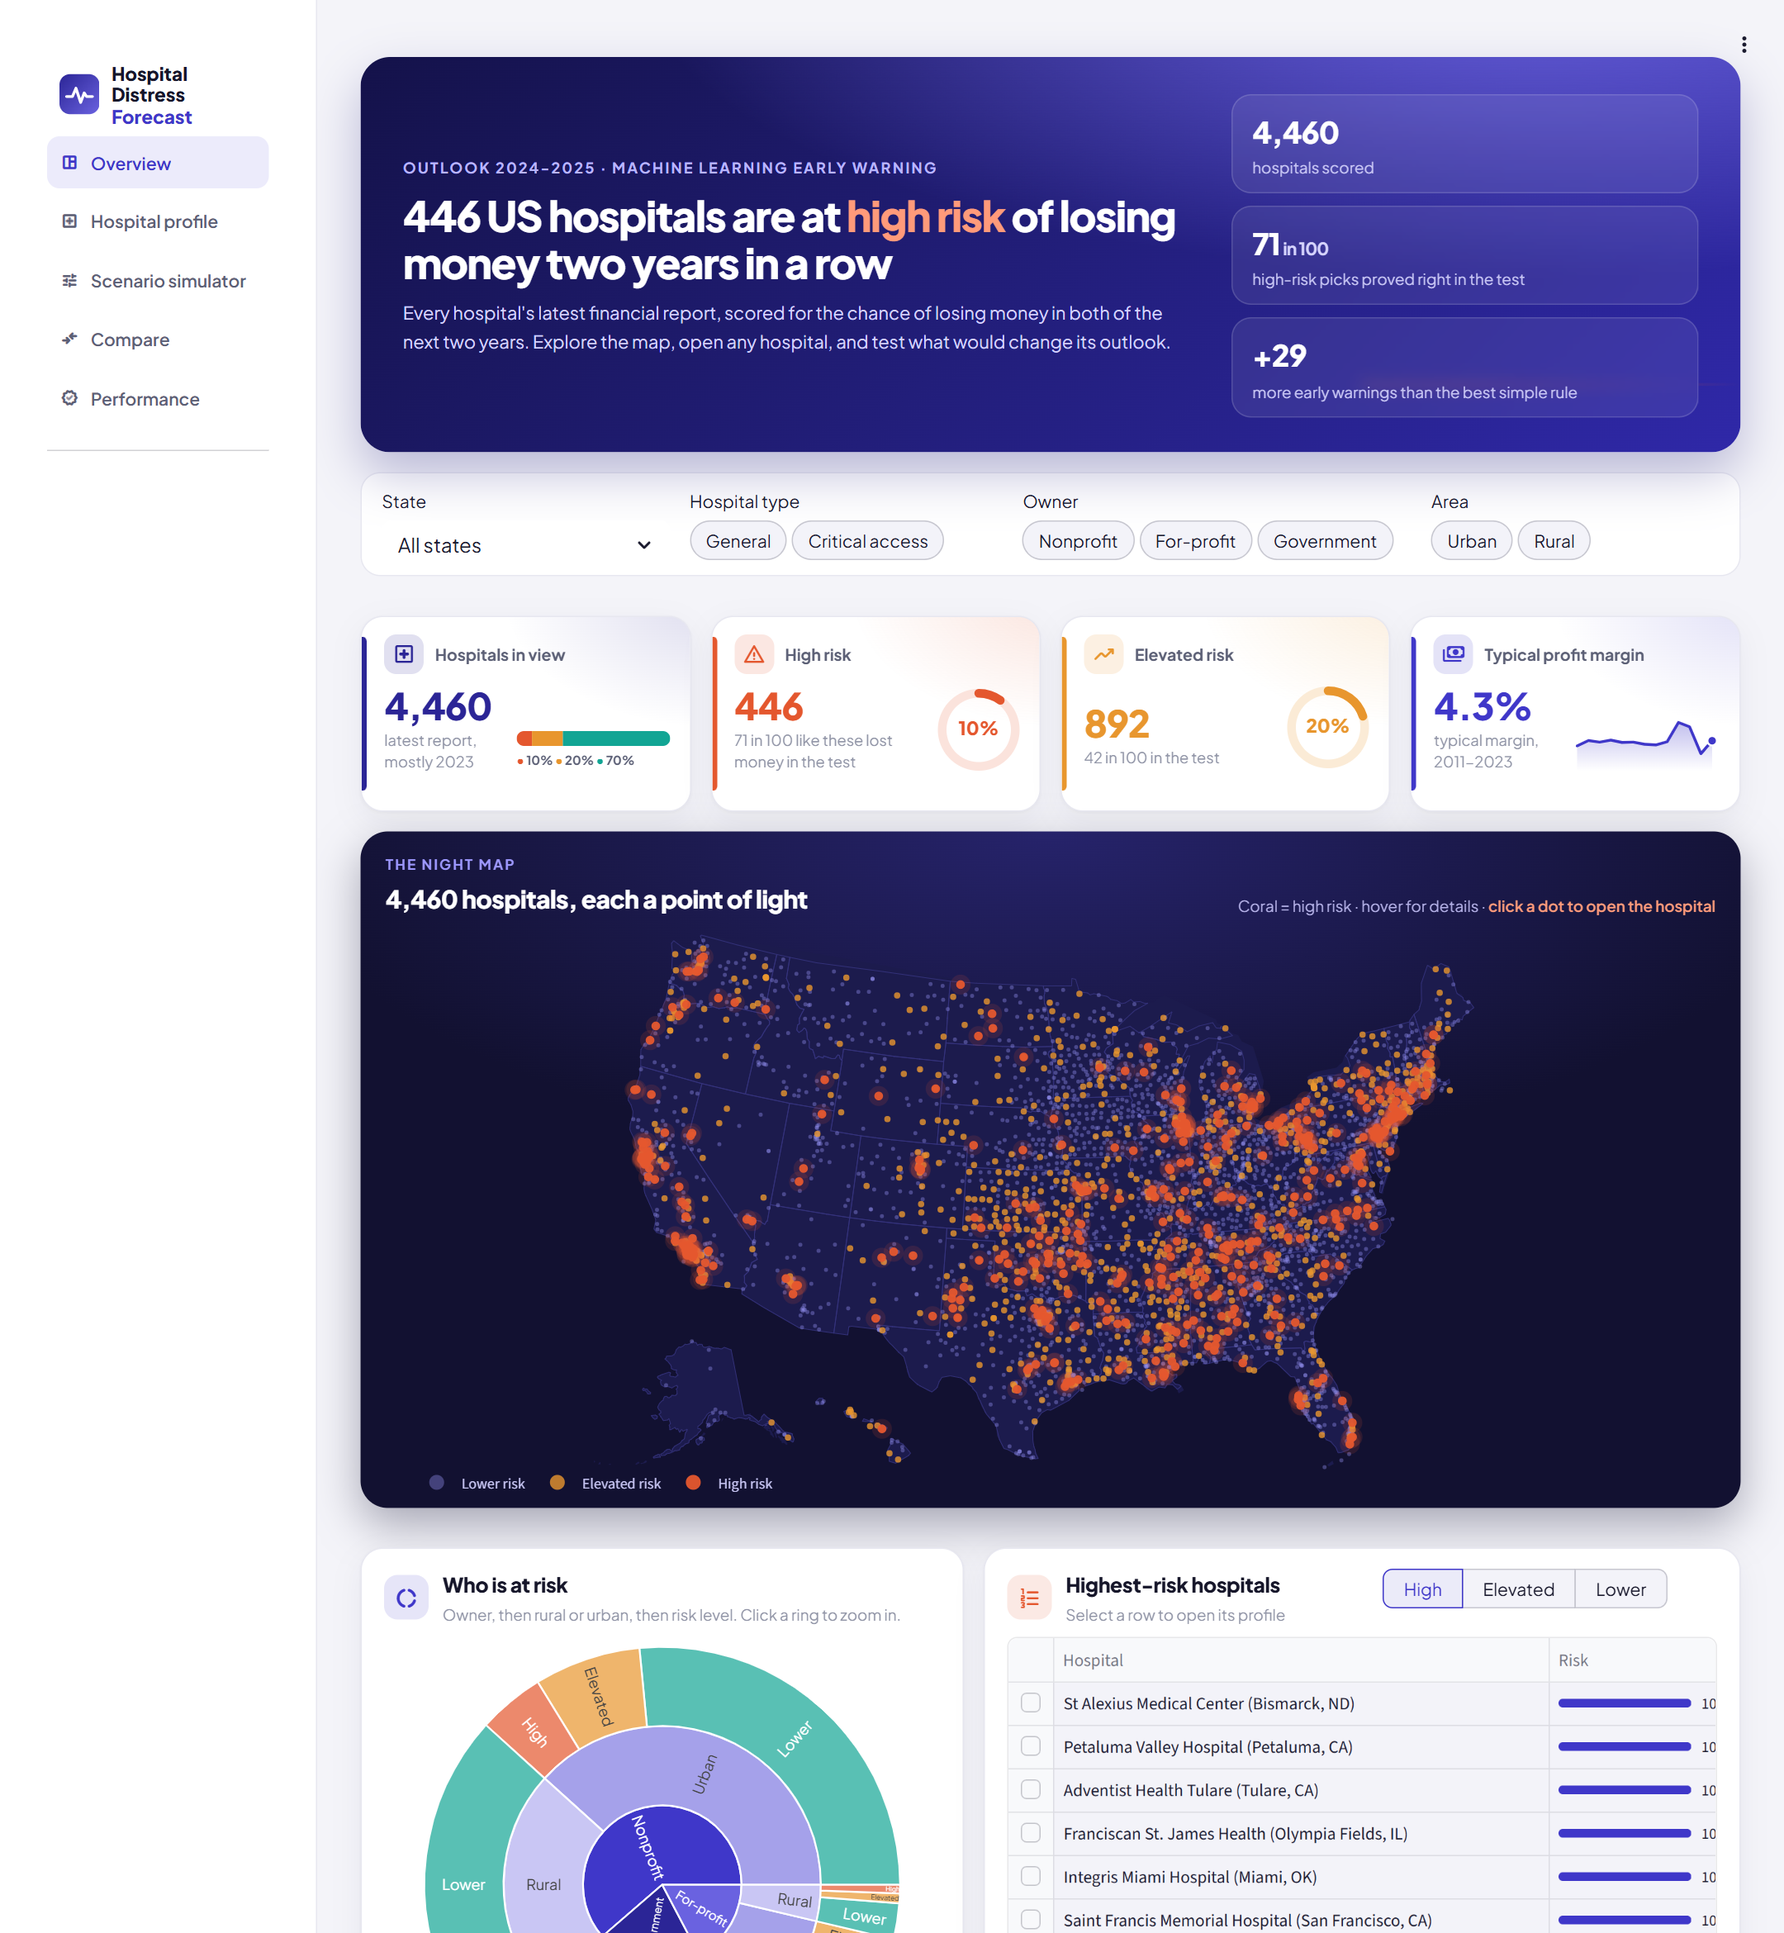
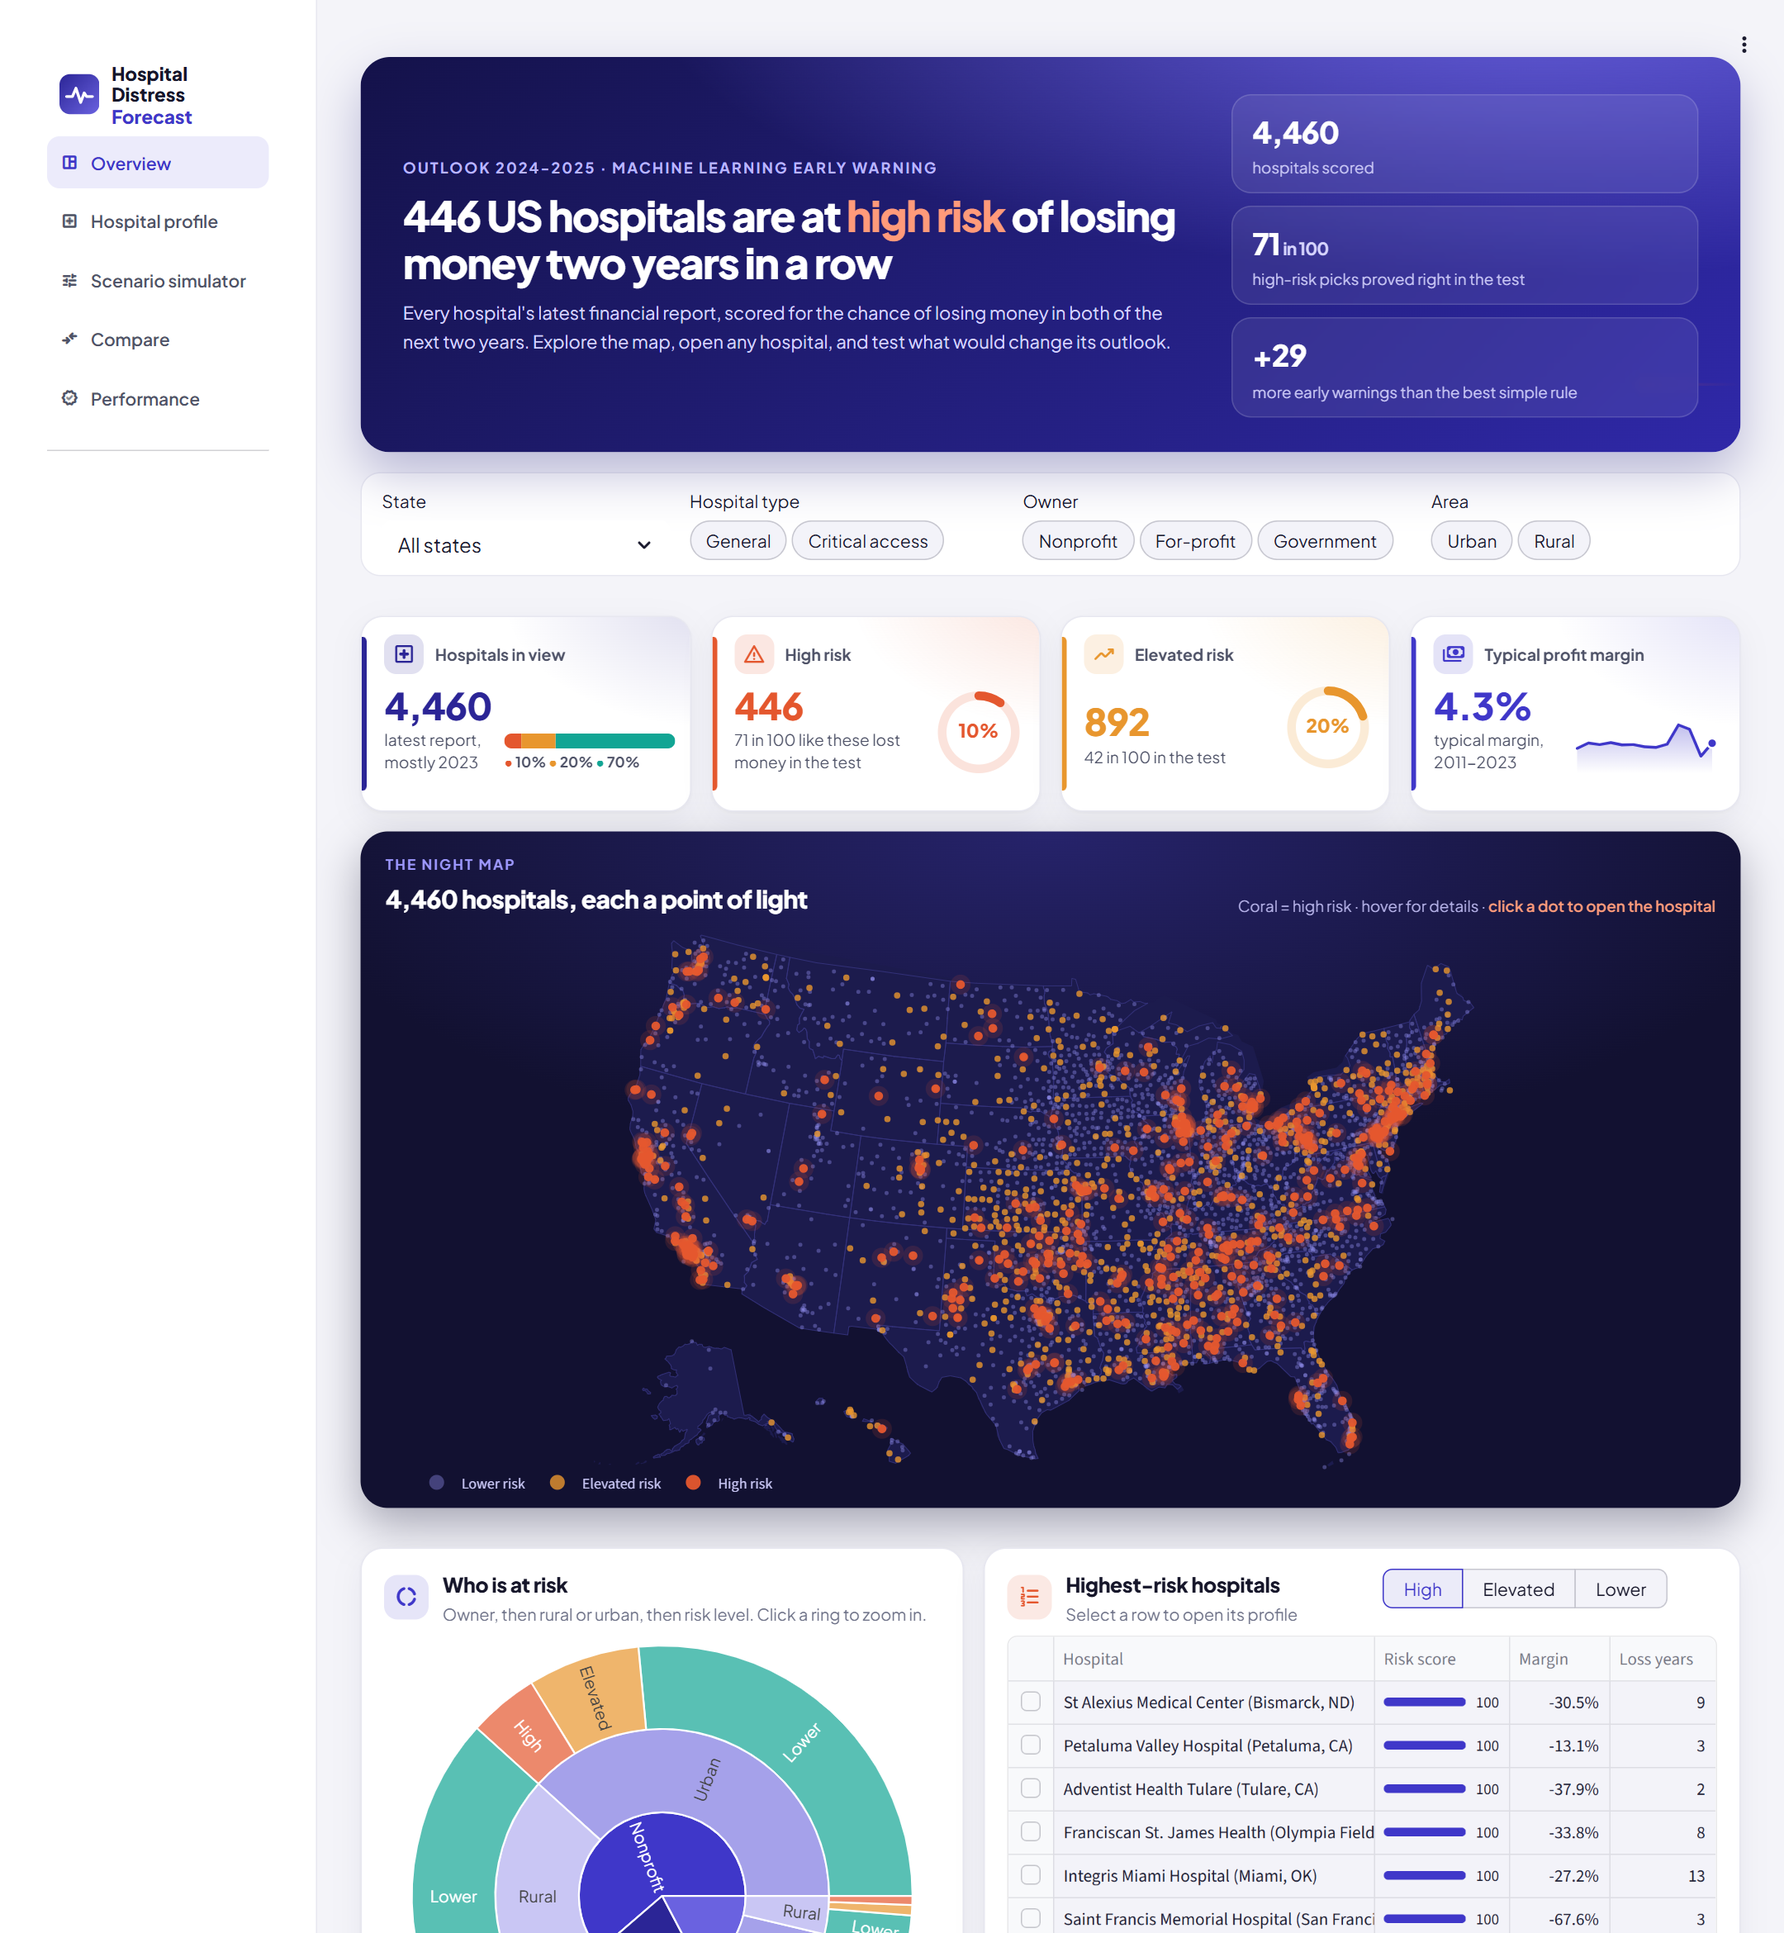
App readability pass: How it works redesign, darker and larger small text, table widths, sunburst labels

diff --git a/app/app.py b/app/app.py
@@ -21,7 +21,7 @@ APP = Path(__file__).resolve().parent
 DATA, MODELS = APP / "data", APP.parent / "models"
 INDIGO, INDIGO_D, INDIGO_L, INDIGO_XL = "#3F37C9", "#2B2596", "#A5A1EA", "#ECEBFB"
 CORAL, AMBER, TEAL = "#E4572E", "#E8962E", "#12A594"
-INK, INK_2, INK_3, CANVAS, CARD, LINE = "#16162A", "#5C6076", "#9094A6", "#F4F4F9", "#FFFFFF", "#E7E7F0"
+INK, INK_2, INK_3, CANVAS, CARD, LINE = "#16162A", "#4F5368", "#6E7288", "#F4F4F9", "#FFFFFF", "#E7E7F0"
 LEVEL_COLOUR = {"High": CORAL, "Elevated": AMBER, "Lower": TEAL}
 LEVEL_BG = {"High": "#FCE7E1", "Elevated": "#FDF0DE", "Lower": "#DDF4F1"}
 LEVELS = ["High", "Elevated", "Lower"]
@@ -174,8 +174,8 @@ h3 {{ font-size: 1.02rem !important; font-weight: 700 !important; color: {INK}; 
 [class*="st-key-card-kpi"] {{ min-height: 128px; }}
 [class*="st-key-filters"] {{ background: {CARD}; border: 1px solid {LINE}; border-radius: 16px; padding: 10px 16px 4px 16px; }}
 .eyebrow {{ font-size: 11.5px; font-weight: 700; letter-spacing: .1em; text-transform: uppercase; color: {INDIGO}; }}
-.sub {{ color: {INK_2}; font-size: 14px; line-height: 1.5; }}
-.muted {{ color: {INK_3}; font-size: 12.5px; }}
+.sub {{ color: {INK_2}; font-size: 14.5px; line-height: 1.55; }}
+.muted {{ color: {INK_3}; font-size: 13.2px; line-height: 1.45; }}
 .kpi-lab {{ color: {INK_2}; font-size: 13px; font-weight: 600; }}
 .kpi-num {{ font-size: 30px; font-weight: 800; letter-spacing: -0.02em; line-height: 1.15; margin: 6px 0 2px 0; }}
 .kpi-ctx {{ color: {INK_3}; font-size: 12.5px; }}
@@ -236,7 +236,7 @@ div[data-testid="stMetricValue"] {{ font-weight: 800; }}
 .kpi2-lab {{ font-size: 13px; font-weight: 700; color: {INK_2}; line-height: 1.25; }}
 .kpi2-body {{ display: flex; justify-content: space-between; align-items: flex-end; gap: 10px; margin-top: 10px; }}
 .kpi2-num {{ font-size: 30px; font-weight: 800; letter-spacing: -0.025em; color: var(--c); line-height: 1.05; }}
-.kpi2-ctx {{ font-size: 12.2px; color: {INK_3}; margin-top: 4px; line-height: 1.35; display: -webkit-box;
+.kpi2-ctx {{ font-size: 12.8px; color: {INK_2}; margin-top: 4px; line-height: 1.35; display: -webkit-box;
     -webkit-line-clamp: 3; -webkit-box-orient: vertical; overflow: hidden; }}
 .kpi2-vis {{ flex: none; }}
 .sec {{ display: flex; gap: 11px; align-items: center; margin-bottom: 8px; }}
@@ -280,11 +280,26 @@ div[data-testid="stMetricValue"] {{ font-weight: 800; }}
 .step-n {{ font-size: 11px; font-weight: 800; color: {INDIGO}; letter-spacing: .1em; }}
 .step-t {{ font-size: 14.5px; font-weight: 800; color: {INK}; margin: 4px 0 4px 0; }}
 .step-d {{ font-size: 12.8px; color: {INK_2}; line-height: 1.45; }}
+.journey {{ position: relative; display: grid; grid-template-columns: repeat(4, 1fr); gap: 18px; margin-top: 8px; }}
+.journey::before {{ content: ""; position: absolute; left: 12%; right: 12%; top: 43px; height: 3px; border-radius: 3px;
+    background: linear-gradient(90deg, {INDIGO}, {TEAL}, {AMBER}, {CORAL}); opacity: .35; }}
+.jr {{ position: relative; background: #fff; border: 1px solid {LINE}; border-top: 4px solid var(--c); border-radius: 18px;
+    padding: 18px 18px 20px 18px; text-align: center; box-shadow: 0 6px 18px rgba(22,22,42,.05); animation: rise .6s both; }}
+.jr-dot {{ width: 48px; height: 48px; border-radius: 50%; margin: 0 auto 10px auto; display: grid; place-items: center;
+    background: var(--c); color: white; box-shadow: 0 6px 16px color-mix(in srgb, var(--c) 40%, transparent); }}
+.jr-dot .msym {{ font-size: 24px; }}
+.jr-n {{ font-size: 11.5px; font-weight: 800; letter-spacing: .12em; text-transform: uppercase; color: var(--c); }}
+.jr-t {{ font-size: 17px; font-weight: 800; color: {INK}; margin: 4px 0 8px 0; letter-spacing: -0.01em; }}
+.jr-d {{ font-size: 14px; color: {INK_2}; line-height: 1.6; }}
+.note {{ display: flex; gap: 12px; align-items: flex-start; margin: 18px 0 6px 0; padding: 14px 16px; border-radius: 14px;
+    background: #FFF7EC; border: 1px solid #F8DDB6; font-size: 14px; color: #5B4A33; line-height: 1.55; }}
+.note .msym {{ color: {AMBER}; font-size: 22px; }}
+.note b {{ color: #3D2F1C; }}
 .waffles {{ display: flex; justify-content: space-around; gap: 12px; flex-wrap: wrap; padding-top: 6px; }}
 .waffle {{ text-align: center; }}
 .waffle-n {{ font-size: 24px; font-weight: 800; letter-spacing: -0.02em; margin-top: 10px; }}
 .waffle-l {{ font-size: 12.5px; color: {INK_2}; font-weight: 600; }}
-.foot {{ color: {INK_3}; font-size: 12px; margin-top: 18px; }}
+.foot {{ color: {INK_2}; font-size: 12.8px; margin-top: 22px; line-height: 1.5; }}
 </style>""", unsafe_allow_html=True)
 
 LOGO = f"""<svg width="34" height="34" viewBox="0 0 34 34" xmlns="http://www.w3.org/2000/svg">
@@ -363,7 +378,7 @@ def spark_svg(vals, colour, w=118, h=46, zero=True):
             f'<circle cx="{xs[-1]:.1f}" cy="{ys[-1]:.1f}" r="3.8" fill="{colour}" stroke="white" stroke-width="1.6"/></svg>')
 
 
-def mixbar_svg(shares, w=124, h=12):
+def mixbar_svg(shares, w=138, h=12):
     """One rounded bar split into the three risk levels (shares in %)."""
     x, parts = 0.0, ""
     for L in LEVELS:
@@ -375,7 +390,7 @@ def mixbar_svg(shares, w=124, h=12):
     legend = "".join(f'<tspan fill="{LEVEL_COLOUR[L]}">● </tspan><tspan>{shares.get(L, 0):.0f}%  </tspan>' for L in LEVELS)
     return (f'<svg width="{w}" height="{h + 20}" viewBox="0 0 {w} {h + 20}"><defs><clipPath id="{cid}">'
             f'<rect width="{w}" height="{h}" rx="{h / 2}"/></clipPath></defs><g clip-path="url(#{cid})">{parts}</g>'
-            f'<text x="0" y="{h + 15}" font-size="10" font-weight="700" fill="{INK_2}" font-family="Plus Jakarta Sans">{legend}</text></svg>')
+            f'<text x="0" y="{h + 15}" font-size="11.5" font-weight="700" fill="{INK_2}" font-family="Plus Jakarta Sans">{legend}</text></svg>')
 
 
 def streak_svg(ccn, w=124, years=9):
@@ -616,10 +631,12 @@ def overview():
                     values.append(r.n); colours.append(LEVEL_COLOUR[r.risk_level])
         fig = go.Figure(go.Sunburst(ids=ids, labels=labels, parents=parents, values=values, branchvalues="total",
                                     marker=dict(colors=colours, line=dict(color="white", width=1.5)),
-                                    insidetextorientation="radial", textfont=dict(size=12),
+                                    insidetextorientation="radial", textfont=dict(size=13),
                                     hovertemplate="<b>%{label}</b><br>%{value:,} hospitals<br>%{percentParent:.0%} of "
                                                   "%{parent}<extra></extra>"))
-        plot(styled(fig, 400))
+        fig = styled(fig, 420)
+        fig.update_layout(uniformtext=dict(minsize=12, mode="hide"))
+        plot(fig)
     with right, card("list"):
         top = st.columns([1.7, 1.6])
         with top[0]:
@@ -631,10 +648,11 @@ def overview():
             table, hide_index=True, use_container_width=True, height=360, on_select="rerun",
             selection_mode="single-row", key="table",
             column_config={
-                "label": st.column_config.TextColumn("Hospital", width="large"),
-                "percentile": st.column_config.ProgressColumn("Risk", min_value=0, max_value=100, format="%.0f"),
-                "margin": st.column_config.NumberColumn("Margin", format="%.1f%%"),
-                "loss_streak": st.column_config.NumberColumn("Years losing")})
+                "label": st.column_config.TextColumn("Hospital", width=250),
+                "percentile": st.column_config.ProgressColumn("Risk score", min_value=0, max_value=100, format="%.0f",
+                                                              width=100),
+                "margin": st.column_config.NumberColumn("Margin", format="%.1f%%", width=72),
+                "loss_streak": st.column_config.NumberColumn("Loss years", width=76)})
         rows = ev.selection.rows if ev is not None else []
         if rows:
             open_profile(table.iloc[rows[0]].label)
@@ -660,7 +678,7 @@ def swarm(h):
                     marker=dict(size=34, color=LEVEL_COLOUR[h.risk_level], opacity=0.2))
     fig.add_scatter(x=[hx], y=[0], mode="markers", showlegend=False, hoverinfo="skip",
                     marker=dict(size=15, color=LEVEL_COLOUR[h.risk_level], line=dict(color="white", width=3)))
-    fig.add_annotation(x=hx, y=0, ax=0, ay=-78, text=f"<b>{h['name'][:32]}</b><br>score {hx:.0f} · #{int(h.risk_rank):,}",
+    fig.add_annotation(x=hx, y=0, ax=0, ay=-78, text=f"<b>{h['name'][:44]}</b><br>score {hx:.0f} · #{int(h.risk_rank):,}",
                        showarrow=True, arrowhead=0, arrowwidth=1.5, arrowcolor=INK, bgcolor="white",
                        bordercolor=LINE, borderpad=6, font=dict(size=12, color=INK, family="Plus Jakarta Sans"))
     for xv, lab in [(100 * Q70, "elevated"), (100 * Q90, "high")]:
@@ -967,7 +985,7 @@ def performance():
     auc, auc_rule = MAIN.loc["XGBoost", "roc_auc"], MAIN.drop(index=["XGBoost", "Logistic regression"]).roc_auc.max()
     bars = (f'<svg width="96" height="62" viewBox="0 0 96 62">'
             f'<rect x="10" y="{58 - 50}" width="30" height="50" rx="7" fill="{TEAL}" style="animation:pop .5s both"/>'
-            f'<rect x="54" y="{58 - 50 * hr / hm:.0f}" width="30" height="{50 * hr / hm:.0f}" rx="7" fill="#CFCBC2" '
+            f'<rect x="54" y="{58 - 50 * hr / hm:.0f}" width="30" height="{50 * hr / hm:.0f}" rx="7" fill="#F29B38" '
             f'style="animation:pop .5s .15s both"/></svg>')
     c = st.columns(4)
     kpi(c[0], "p1", "High-risk picks that were right", f"{HIT} in 100", "2021 reports, outcome 2022-2023", INDIGO,
@@ -976,7 +994,7 @@ def performance():
         "rule", ring_svg(rule, "#F29B38", text=f"{rule}", track="#FDEBD5"), 1)
     kpi(c[2], "p3", "Early warnings caught", f"+{hm - hr}", f"{hm} vs {hr} among hospitals still making money", TEAL,
         "notifications_active", bars, 2)
-    kpi(c[3], "p4", "Ranking accuracy (ROC-AUC)", f"{auc:.2f}", f"best rule {auc_rule:.2f} · 0.5 = guessing", INDIGO_D,
+    kpi(c[3], "p4", "Ranking accuracy", f"{auc:.2f}", f"ROC-AUC · best rule {auc_rule:.2f} · 0.5 = a coin flip", INDIGO_D,
         "leaderboard", ring_svg(100 * (auc - 0.5) / 0.5, INDIGO_D, text=f"{auc:.2f}", track=INDIGO_XL), 3)
     st.write("")
     left, right = st.columns([1.2, 1])
@@ -1010,25 +1028,25 @@ def performance():
         html(f'<div class="waffles">{cells}</div><div style="height:14px"></div>')
     st.write("")
     with card("method"):
-        section("science", "How it works", f"Built from public data, tested the way it would be used")
-        steps = [("1 · DATA", "Hospital financial reports",
-                  "Every Medicare hospital's yearly cost report, 2011-2023, cleaned and checked in PostgreSQL. "
-                  "46,946 hospital-years with a known outcome."),
-                 ("2 · QUESTION", "Two years of losses?",
-                  "From one year's report: will the hospital lose money in both of the next two years?"),
-                 ("3 · MODEL", f"XGBoost on {len(FEATURES)} signals",
-                  "Profit history, patient-care profit, loss streak, cash, debt, costs, agency staff, staffing, patient mix, "
-                  "size, and the state and national picture."),
-                 ("4 · TEST", "Years it never saw",
-                  "Settings chosen on 2017-2018 only; tested on 2019, 2020 and 2021 reports against rules of thumb.")]
-        sc = st.columns(4)
-        for col, (n, t_, d_) in zip(sc, steps):
-            col.markdown(f'<div class="step"><div class="step-n">{n}</div><div class="step-t">{t_}</div>'
-                         f'<div class="step-d">{d_}</div></div>', unsafe_allow_html=True)
-        st.markdown(f'<div class="muted" style="margin-top:12px">Limits: hospitals that close stop filing, so closures are not '
-                    f'counted; scores drift with the economy, so the app shows risk levels with their track record instead of '
-                    f'exact chances. Explanations are exact per-factor contributions from the trees (the same idea as SHAP).</div>',
-                    unsafe_allow_html=True)
+        section("route", "How it works", "Four steps, from public data to a tested early warning")
+        steps = [("database", INDIGO, "Step 1", "Real public data",
+                  "The yearly financial report every US hospital files with Medicare, 2011 to 2023: about 47,000 "
+                  "hospital-years."),
+                 ("help", TEAL, "Step 2", "One clear question",
+                  "From this year's report, will the hospital lose money in both of the next two years?"),
+                 ("model_training", AMBER, "Step 3", f"{len(FEATURES)} warning signs",
+                  "Profit history, cash, debt, staffing costs, patient mix and the local economy. The model learns which "
+                  "combinations lead to trouble."),
+                 ("verified", CORAL, "Step 4", "Tested on the future",
+                  "Trained only on older years, then checked on 2019-2021 reports it had never seen, against simple rules.")]
+        cells = "".join(
+            f'<div class="jr" style="--c:{c};animation-delay:{0.08 * i:.2f}s"><div class="jr-dot"><span class="msym">{ic}</span></div>'
+            f'<div class="jr-n">{n}</div><div class="jr-t">{ti}</div><div class="jr-d">{de}</div></div>'
+            for i, (ic, c, n, ti, de) in enumerate(steps))
+        html(f"""<div class="journey">{cells}</div>
+            <div class="note"><span class="msym">info</span><div><b>Good to know.</b> Hospitals that close stop filing reports,
+            so closures are not counted. Scores shift with the economy, so the app shows risk levels with their track record
+            rather than exact chances. The reasons shown for each hospital come straight from the model.</div></div>""")
     footer()
 
 
